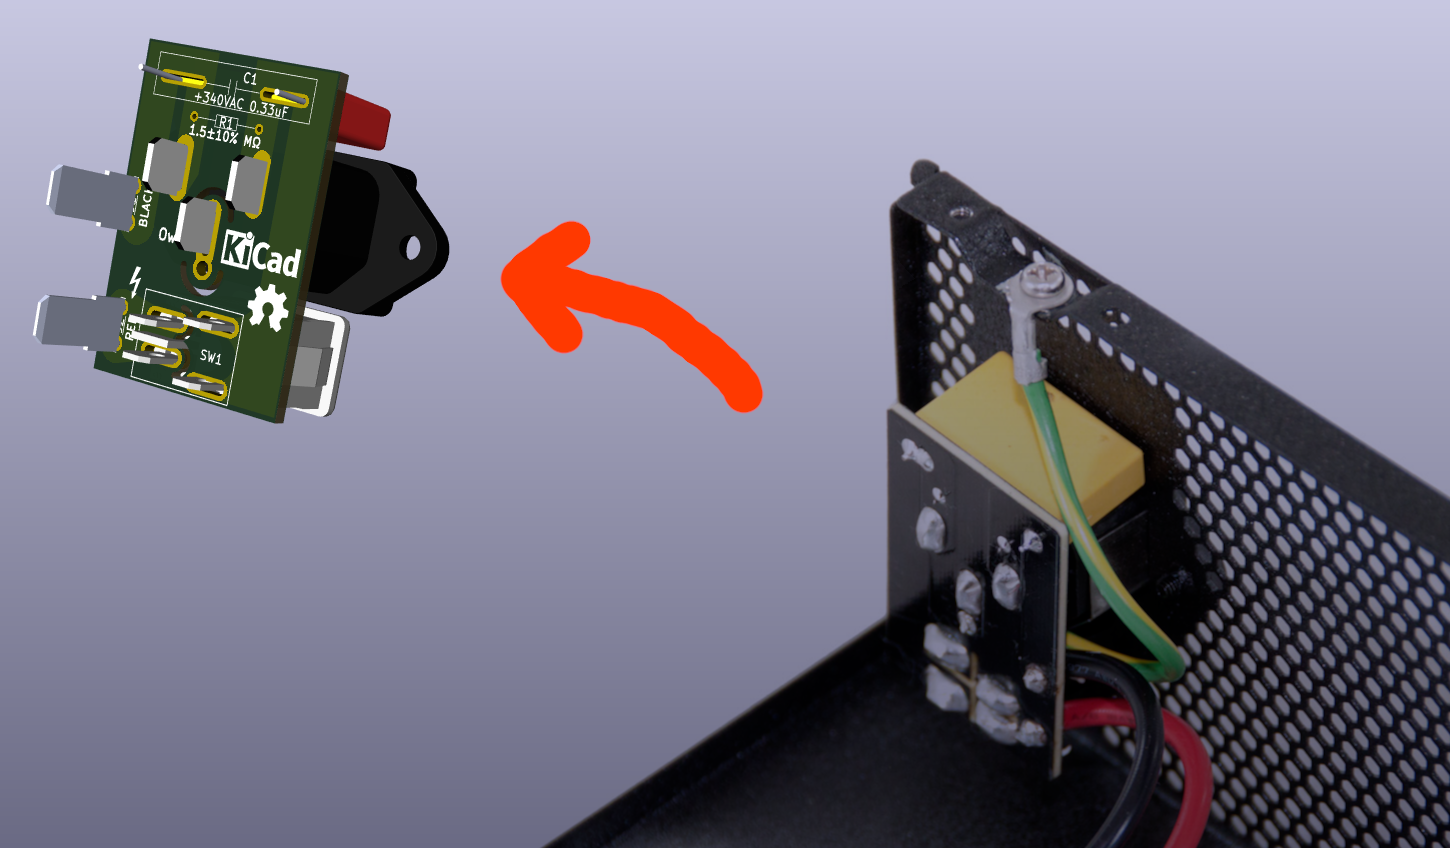
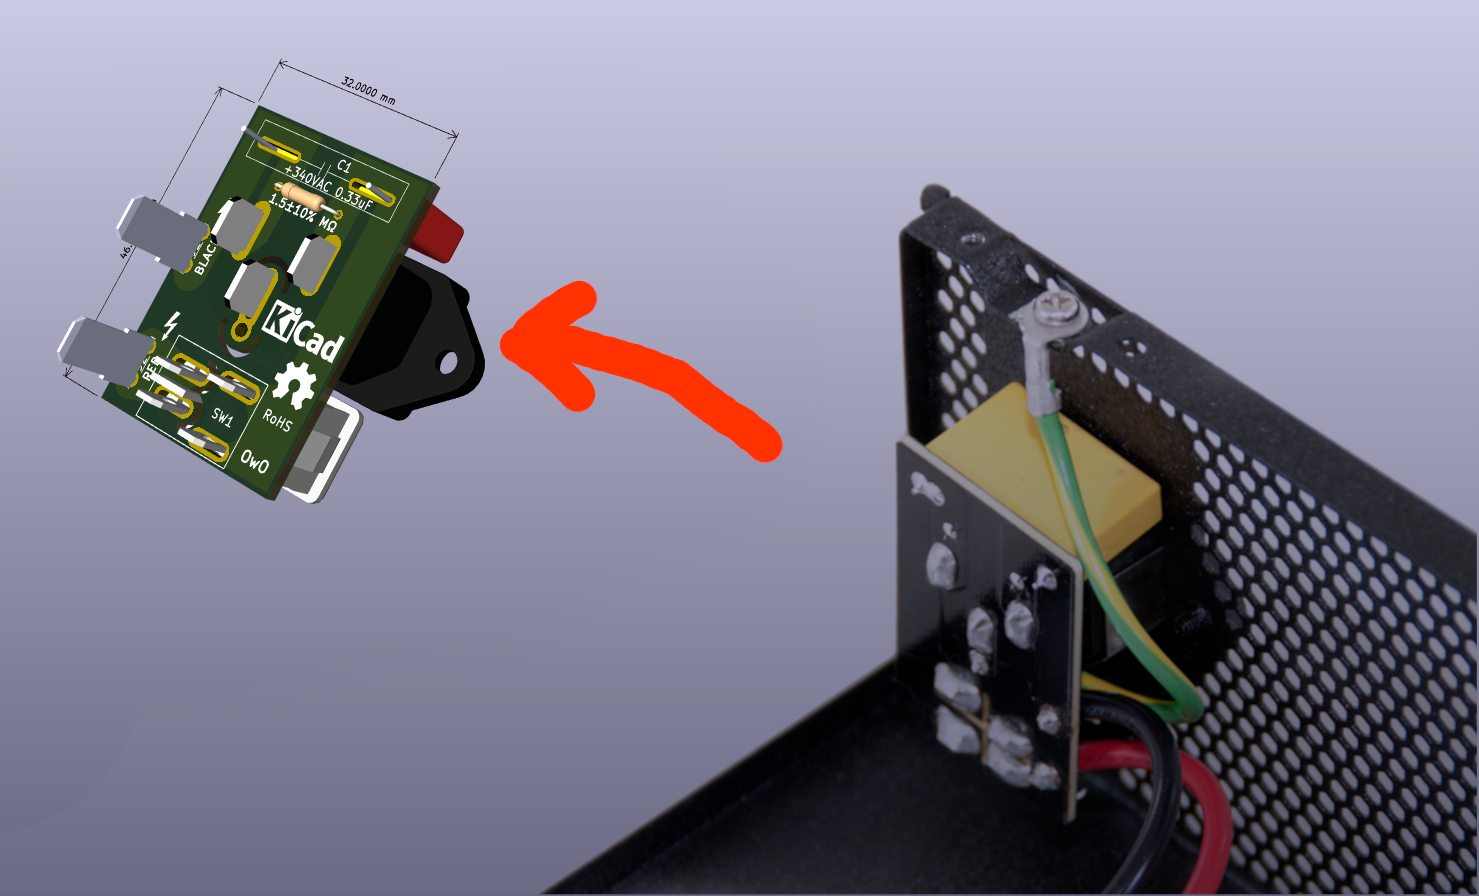
sync

diff --git a/README.md b/README.md
@@ -20,6 +20,14 @@ Turning off the power switch **IS NOT ENOUGH TO CUT POWER TO THE RELEVANT COMPON
 
 EVGA uses film capacitor with wrong rating (305VAC) while the Root Mean Square for 240VAC input power is is 340VAC, thus it's recommended to get an alternative capacitor with sufficient rating.
 
+## How To Order
+
+
+
+JLCPCB: https://cart.jlcpcb.com/quote?orderType=1&&homeUploadNum=faa62aeda777402eac21cb434500f11c&businessType=example&fileName=gerber.zip
+
+PCBWay: https://www.pcbway.com/orderonline.aspx?radBoardType=1&hidLength=32&hidWidth=46&hidNum=5&hidLayers=2&radPlatingType=HASL%20lead%20free
+
 ### Credits
 
 QR Code Generated via https://github.com/lyqht/mini-qr, thanks!
